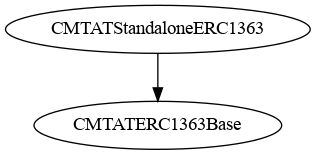
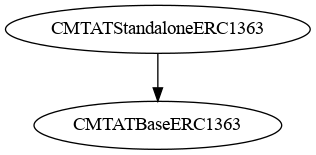
Rename ERC-1363 contracts + update changelog

Changed region(s): [[0.4272, 0.7484, 0.769, 0.8516]]

diff --git a/test/deployment/erc721mock.test.js b/test/deployment/erc721mock.test.js
@@ -1,5 +1,5 @@
-const { expect } = require("chai");
-const { ethers } = require("hardhat");
+const { expect } = require('chai')
+const { ethers } = require('hardhat')
 const TERMS = [
   'doc1',
   'https://example.com/doc1',
@@ -12,98 +12,97 @@ const {
 const { ZERO_ADDRESS } = require('../utils')
 const DocumentModuleCommon = require('../common/DocumentModule/DocumentModuleCommon')
 const DebtModuleCommon = require('../common/DebtModule/DebtModuleCommon')
-describe("ERC721MockUpgradeable", function () {
-  
-  const SYMBOL = "ERC721MockS"
-  const NAME = "ERC721MockN"
+describe('ERC721MockUpgradeable', function () {
+  const SYMBOL = 'ERC721MockS'
+  const NAME = 'ERC721MockN'
   beforeEach(async function () {
     Object.assign(this, await loadFixture(fixture))
     const ETHERS_CMTAT_PROXY_FACTORY = await ethers.getContractFactory(
-        'ERC721MockUpgradeable'
-      )
-    this.cmtat  = await upgrades.deployProxy(
-        ETHERS_CMTAT_PROXY_FACTORY,
-        [
-            NAME, SYMBOL,
-            this.admin.address,
-            ['CMTAT_ISIN', TERMS, 'CMTAT_info'],
-            ZERO_ADDRESS
-        ],
-        {
-          initializer: 'initialize',
-          constructorArgs: [],
-          from: this.admin.address
-        }
-      )
-  });
+      'ERC721MockUpgradeable'
+    )
+    this.cmtat = await upgrades.deployProxy(
+      ETHERS_CMTAT_PROXY_FACTORY,
+      [
+        NAME, SYMBOL,
+        this.admin.address,
+        ['CMTAT_ISIN', TERMS, 'CMTAT_info'],
+        ZERO_ADDRESS
+      ],
+      {
+        initializer: 'initialize',
+        constructorArgs: [],
+        from: this.admin.address
+      }
+    )
+  })
 
-  it("testHasTheRightNameAndSymbol", async function () {
-    expect(await this.cmtat.name()).to.equal(NAME);
-    expect(await this.cmtat.symbol()).to.equal(SYMBOL);
-  });
+  it('testHasTheRightNameAndSymbol', async function () {
+    expect(await this.cmtat.name()).to.equal(NAME)
+    expect(await this.cmtat.symbol()).to.equal(SYMBOL)
+  })
 
-  it("testCanMintToken", async function () {
-    await this.cmtat.mint(this.address1, 1);
-    expect(await this.cmtat.ownerOf(1)).to.equal(this.address1);
-    expect(await this.cmtat.balanceOf(this.address1)).to.equal(1);
-  });
+  it('testCanMintToken', async function () {
+    await this.cmtat.mint(this.address1, 1)
+    expect(await this.cmtat.ownerOf(1)).to.equal(this.address1)
+    expect(await this.cmtat.balanceOf(this.address1)).to.equal(1)
+  })
 
-  it("testCanTransferTokenDirectly", async function () {
-    await this.cmtat.mint(this.admin, 1);
-    await this.cmtat.connect(this.admin).transferFrom(this.admin, this.address1, 1);
-    expect(await this.cmtat.ownerOf(1)).to.equal(this.address1);
-  });
+  it('testCanTransferTokenDirectly', async function () {
+    await this.cmtat.mint(this.admin, 1)
+    await this.cmtat.connect(this.admin).transferFrom(this.admin, this.address1, 1)
+    expect(await this.cmtat.ownerOf(1)).to.equal(this.address1)
+  })
 
-  it("testFailedTransferIfNotOwned", async function () {
-    await this.cmtat.mint(this.address1, 1);
+  it('testFailedTransferIfNotOwned', async function () {
+    await this.cmtat.mint(this.address1, 1)
     this.cmtat.connect(this.address2).transferFrom(this.address1, this.address2, 1)
-  });
+  })
 
-  it("testApprovedAndTransfer", async function () {
-    await this.cmtat.mint(this.address1, 1);
-    await this.cmtat.connect(this.address1).approve(this.address2, 1);
-    await this.cmtat.connect(this.address2).transferFrom(this.address1, this.address2, 1);
-    expect(await this.cmtat.ownerOf(1)).to.equal(this.address2);
-  });
+  it('testApprovedAndTransfer', async function () {
+    await this.cmtat.mint(this.address1, 1)
+    await this.cmtat.connect(this.address1).approve(this.address2, 1)
+    await this.cmtat.connect(this.address2).transferFrom(this.address1, this.address2, 1)
+    expect(await this.cmtat.ownerOf(1)).to.equal(this.address2)
+  })
 
-  it("testSetAndRespectOperatorApprovals", async function () {
-    await this.cmtat.mint(this.address1, 1);
-    await this.cmtat.connect(this.address1).setApprovalForAll(this.address2, true);
-    expect(await this.cmtat.isApprovedForAll(this.address1, this.address2)).to.be.true;
-    await this.cmtat.connect(this.address2).transferFrom(this.address1, this.admin, 1);
-    expect(await this.cmtat.ownerOf(1)).to.equal(this.admin);
-  });
+  it('testSetAndRespectOperatorApprovals', async function () {
+    await this.cmtat.mint(this.address1, 1)
+    await this.cmtat.connect(this.address1).setApprovalForAll(this.address2, true)
+    expect(await this.cmtat.isApprovedForAll(this.address1, this.address2)).to.be.true
+    await this.cmtat.connect(this.address2).transferFrom(this.address1, this.admin, 1)
+    expect(await this.cmtat.ownerOf(1)).to.equal(this.admin)
+  })
 
-  it("testEmitTransferEventOnMint", async function () {
+  it('testEmitTransferEventOnMint', async function () {
     await expect(this.cmtat.mint(this.address1, 1))
-      .to.emit(this.cmtat, "Transfer")
-      .withArgs(ZERO_ADDRESS, this.address1, 1);
-  });
+      .to.emit(this.cmtat, 'Transfer')
+      .withArgs(ZERO_ADDRESS, this.address1, 1)
+  })
 
-  it("testCannotTransferToAFrozenAddress", async function () {
-    await this.cmtat.mint(this.admin, 1);
+  it('testCannotTransferToAFrozenAddress', async function () {
+    await this.cmtat.mint(this.admin, 1)
     await this.cmtat.connect(this.admin).setAddressFrozen(this.address1, true)
     await expect(this.cmtat.transferFrom(this.admin, this.address1, 1)).to.be.revertedWithCustomError(
       this.cmtat,
       'CMTAT_InvalidTransfer')
-    .withArgs( this.admin,this.address1, 1);
-  });
+      .withArgs(this.admin, this.address1, 1)
+  })
 
-  it("testCannotTransferIfContractIsPaused", async function () {
-    await this.cmtat.mint(this.admin, 1);
-    await this.cmtat.connect(this.admin).pause();
+  it('testCannotTransferIfContractIsPaused', async function () {
+    await this.cmtat.mint(this.admin, 1)
+    await this.cmtat.connect(this.admin).pause()
     await expect(this.cmtat.transferFrom(this.admin, this.address1, 1)).to.be.revertedWithCustomError(
       this.cmtat,
       'CMTAT_InvalidTransfer')
-    .withArgs( this.admin,this.address1, 1)
-  });
+      .withArgs(this.admin, this.address1, 1)
+  })
 
-  it("testCannotMintIfContractIsDeactivated", async function () {
-    await this.cmtat.connect(this.admin).deactivateContract();
+  it('testCannotMintIfContractIsDeactivated', async function () {
+    await this.cmtat.connect(this.admin).deactivateContract()
     await expect(this.cmtat.mint(this.admin, 1)).to.be.revertedWithCustomError(
       this.cmtat,
       'CMTAT_InvalidTransfer').withArgs(ZERO_ADDRESS, this.admin, 1)
-  });
+  })
   DocumentModuleCommon()
   DebtModuleCommon()
-});
+})

diff --git a/test/deployment/deploymentERC1363Standalone.test.js b/test/deployment/deploymentERC1363Standalone.test.js
@@ -76,7 +76,7 @@ describe('CMTAT ERC1363 - Standalone', function () {
   ERC20BurnModuleCommon()
   ERC20MintModuleCommon()
   EnforcementModuleCommon()
-  
+
   // Extensions
   ERC20EnforcementModuleCommon()
   DocumentModuleCommon()

diff --git a/CHANGELOG.md b/CHANGELOG.md
@@ -46,10 +46,12 @@ The main goal of this version since the last version 2.3.0 is:
 
 ### ValidationModule
 
-- Separate logic in three contracts:
-  - ValidationModuleInternalCore
-  - ValidationModuleInternal
-  - ValidationModuleERC1404
+- Separate logic in  several contracts:
+  - ValidationModule (controllrs)
+  - ValidationModuleCore (core)
+  - ValidationModuleRuleEngineInternal (internal)
+  - ValidationModuleRuleEngine (extensions)
+  - ValidationModuleERC1404 (extensions)
 
 ### Core module
 
@@ -81,6 +83,15 @@ The main goal of this version since the last version 2.3.0 is:
 - Add deployment version for [ERC-1363](https://eips.ethereum.org/EIPS/eip-1363)
 - Add light deployment with only core modules
 - Create a separate directory for factory contract. See [CMTATFactory](https://github.com/CMTA/CMTATFactory)
+
+### Base contract
+
+Add several base contracts to build the different deployment version:
+
+- CMTATBase for CMTATStandalone/Upgradeable/UUPS
+- CMTATBaseERC1363 for ERC-1363
+- CMTATBaseCore for light deployment
+- CMTATBaseGeneric to build non-ERC20 contracts (e.g ERC-721)
 
 ### Engine
 
